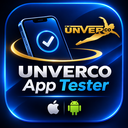
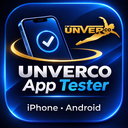
App Tester paneli: logosuz ikon, lisans/marka metinleri, GitHub kota ifadesi
Claude-Session: https://claude.ai/code/session_0164vSdffGZKhvCZ6CJ8cgoG

Changed region(s): [[0.1875, 0.7812, 0.8125, 0.9062], [0.4375, 0.2812, 0.4688, 0.3125], [0.4062, 0.25, 0.4375, 0.2812]]

diff --git a/app-tester/locales/en.js b/app-tester/locales/en.js
@@ -73,7 +73,7 @@ export default {
   "import.err.bad_schema": "The schema number is missing or invalid.",
   "import.err.newer_schema": "This file uses schema {n}, which is newer than this panel understands. Please update the panel.",
   "import.err.bad_field": "A field is missing or has the wrong type: {field}",
-  "import.err.too_large": "The file is larger than 5 MB.",
+  "import.err.too_large": "The file is larger than 5 MB. Import app-tester-results.json, not the artifact ZIP.",
   "import.err.too_many": "The file lists too many items (the limit is {max} failures or environments).",
   "setup.title": "Setup guide",
   "setup.intro": "Five steps, done once. No command line is needed.",
@@ -83,18 +83,18 @@ export default {
   "setup.step2.title": "Edit config.json",
   "setup.step2.text": "Open app-tester/config.json and enter your app name and the path or web address of your app. Add journey steps if you want to test a flow.",
   "setup.step3.title": "Commit and push",
-  "setup.step3.text": "Commit the new files and push them to GitHub. GitHub Desktop or the upload button on the GitHub website both work.",
+  "setup.step3.text": "Commit the new files and push them to GitHub. You can use GitHub Desktop or the upload button on the GitHub website.",
   "setup.step4.title": "Run the workflow",
-  "setup.step4.text": "On GitHub open Actions, choose App Tester, then press Run workflow. A full run usually takes about 10 to 13 minutes. For a quick check in about 2 minutes, run App Tester - Web on its own.",
+  "setup.step4.text": "On GitHub open Actions, choose App Tester, click Run workflow, then Run workflow again. A full check takes about 10 to 13 minutes. For a quick check in about 2 minutes, run App Tester - Web on its own.",
   "setup.step5.title": "Download the result and import it",
   "setup.step5.text": "When the run is finished, open it, download the artifact and unzip it. Then import app-tester-results.json here.",
   "setup.goImport": "Import results",
   "setup.cost.title": "Cost",
-  "setup.cost.text": "In a public GitHub repository the standard runners are free. In a private repository the minutes come from your plan: GitHub Free includes 2,000 minutes a month, and the iPhone test runs on macOS, which uses them about 10 times faster (about 0.062 USD per macOS minute after that). A full run takes about 10 to 13 minutes, the quick web check about 2 minutes. Check GitHub's current prices before you run.",
+  "setup.cost.text": "In a public GitHub repository the standard runners are free. In a private repository, usage comes from your GitHub plan: GitHub Free includes $12 of Actions usage a month (about 2,000 standard Linux minutes), and the iOS test runs on macOS, which costs about 10 times more per minute. A full check takes about 10 to 13 minutes, the quick check about 2 minutes. Check GitHub's current prices before you run.",
   "setup.req.title": "What you need",
   "setup.req.1": "A GitHub account",
   "setup.req.2": "A GitHub repository with your app (public is free)",
-  "setup.req.3": "A web browser. You need no Mac and no iPhone.",
+  "setup.req.3": "A web browser. You do not need a Mac or an iPhone.",
   "setup.req.4": "An AI coding assistant to paste the fix prompts into (optional)",
   "results.title": "Results",
   "results.none": "No result is selected yet.",
@@ -156,10 +156,10 @@ export default {
   "settings.deleted": "All data deleted.",
   "about.title": "About",
   "about.version": "Version {version}",
-  "about.license": "License: for the personal use of the buyer. Do not share or resell the file.",
+  "about.license": "License: for the buyer's own use (one person or one business). Do not share, resell or redistribute the files.",
   "about.third": "Icons: Lucide (ISC License).",
-  "about.trademarks": "Android is a trademark of Google LLC. iPhone and Safari are trademarks of Apple Inc. Not affiliated with Apple or Google.",
-  "about.ai": "Made with the help of AI.",
+  "about.trademarks": "Android and Chrome are trademarks of Google LLC. iPhone, Safari and macOS are trademarks of Apple Inc. GitHub is a trademark of GitHub, Inc. Not affiliated with or endorsed by Apple, Google or GitHub.",
+  "about.ai": "The code and images were made with help from AI tools.",
   "about.company": "© 2026 ÜNVER GROUP GLOBAL PAZARLAMA A.Ş. (ÜNVERCO)",
   "pwa.update": "A new version is ready.",
   "pwa.refresh": "Refresh",

diff --git a/app-tester/locales/fr.js b/app-tester/locales/fr.js
@@ -73,7 +73,7 @@ export default {
   "import.err.bad_schema": "Le numéro de schéma est absent ou invalide.",
   "import.err.newer_schema": "Ce fichier utilise le schéma {n}, plus récent que ce que ce panneau comprend. Mettez le panneau à jour.",
   "import.err.bad_field": "Un champ est absent ou d’un type incorrect : {field}",
-  "import.err.too_large": "Le fichier dépasse 5 Mo.",
+  "import.err.too_large": "Le fichier dépasse 5 Mo. Importez app-tester-results.json, pas le ZIP de l’artefact.",
   "import.err.too_many": "Le fichier contient trop d’éléments (la limite est de {max} erreurs ou environnements).",
   "setup.title": "Guide d’installation",
   "setup.intro": "Cinq étapes, à faire une seule fois. Aucune ligne de commande n’est nécessaire.",
@@ -85,12 +85,12 @@ export default {
   "setup.step3.title": "Faites un commit et un push",
   "setup.step3.text": "Faites un commit des nouveaux fichiers et envoyez-les sur GitHub. GitHub Desktop ou le bouton d’envoi du site GitHub conviennent tous deux.",
   "setup.step4.title": "Lancez le workflow",
-  "setup.step4.text": "Sur GitHub, ouvrez Actions, choisissez App Tester, puis cliquez sur Run workflow. Une exécution complète dure en général de 10 à 13 minutes environ. Pour une vérification rapide d’environ 2 minutes, lancez App Tester - Web seul.",
+  "setup.step4.text": "Sur GitHub, ouvrez Actions, choisissez App Tester, cliquez sur Run workflow, puis encore sur Run workflow. Une vérification complète prend environ 10 à 13 minutes. Pour une vérification rapide d’environ 2 minutes, lancez App Tester - Web seul.",
   "setup.step5.title": "Téléchargez le résultat et importez-le",
   "setup.step5.text": "Quand l’exécution est terminée, ouvrez-la, téléchargez l’artefact et décompressez-le. Importez ensuite app-tester-results.json ici.",
   "setup.goImport": "Importer les résultats",
   "setup.cost.title": "Coût",
-  "setup.cost.text": "Dans un dépôt GitHub public, les runners standard sont gratuits. Dans un dépôt privé, les minutes viennent de votre offre : GitHub Free inclut 2 000 minutes par mois, et le test iPhone tourne sous macOS, qui les consomme environ 10 fois plus vite (ensuite, environ 0,062 USD par minute macOS). Une exécution complète prend environ 10 à 13 minutes, la vérification web rapide environ 2 minutes. Vérifiez les tarifs actuels de GitHub avant de lancer.",
+  "setup.cost.text": "Dans un dépôt GitHub public, les runners standard sont gratuits. Dans un dépôt privé, l’usage vient de votre offre GitHub : GitHub Free inclut 12 $ d’usage Actions par mois (environ 2 000 minutes Linux standard), et le test iOS tourne sous macOS, qui coûte environ 10 fois plus par minute. Une vérification complète prend environ 10 à 13 minutes, la vérification rapide environ 2 minutes. Vérifiez les tarifs actuels de GitHub avant de lancer.",
   "setup.req.title": "Ce qu’il vous faut",
   "setup.req.1": "Un compte GitHub",
   "setup.req.2": "Un dépôt GitHub contenant votre application (public : gratuit)",
@@ -156,10 +156,10 @@ export default {
   "settings.deleted": "Toutes les données ont été supprimées.",
   "about.title": "À propos",
   "about.version": "Version {version}",
-  "about.license": "Licence : pour l’usage personnel de l’acheteur. Ne partagez pas et ne revendez pas le fichier.",
+  "about.license": "Licence : pour l’usage propre de l’acheteur (une personne ou une entreprise). Ne partagez pas, ne revendez pas et ne redistribuez pas les fichiers.",
   "about.third": "Icônes : Lucide (licence ISC).",
-  "about.trademarks": "Android est une marque de Google LLC. iPhone et Safari sont des marques d’Apple Inc. Sans affiliation avec Apple ou Google.",
-  "about.ai": "Réalisé avec l’aide de l’IA.",
+  "about.trademarks": "Android et Chrome sont des marques de Google LLC. iPhone, Safari et macOS sont des marques d’Apple Inc. GitHub est une marque de GitHub, Inc. Sans affiliation ni approbation d’Apple, de Google ou de GitHub.",
+  "about.ai": "Le code et les images ont été réalisés avec l’aide d’outils d’IA.",
   "about.company": "© 2026 ÜNVER GROUP GLOBAL PAZARLAMA A.Ş. (ÜNVERCO)",
   "pwa.update": "Une nouvelle version est prête.",
   "pwa.refresh": "Actualiser",

diff --git a/app-tester/locales/de.js b/app-tester/locales/de.js
@@ -73,7 +73,7 @@ export default {
   "import.err.bad_schema": "Die Schemanummer fehlt oder ist ungültig.",
   "import.err.newer_schema": "Diese Datei nutzt Schema {n}, neuer als dieses Panel versteht. Bitte aktualisieren Sie das Panel.",
   "import.err.bad_field": "Ein Feld fehlt oder hat den falschen Typ: {field}",
-  "import.err.too_large": "Die Datei ist größer als 5 MB.",
+  "import.err.too_large": "Die Datei ist größer als 5 MB. Importieren Sie app-tester-results.json, nicht die Artefakt-ZIP.",
   "import.err.too_many": "Die Datei enthält zu viele Einträge (Grenze: {max} Fehler oder Umgebungen).",
   "setup.title": "Einrichtungsanleitung",
   "setup.intro": "Fünf Schritte, einmalig. Eine Kommandozeile ist nicht nötig.",
@@ -85,12 +85,12 @@ export default {
   "setup.step3.title": "Committen und pushen",
   "setup.step3.text": "Committen Sie die neuen Dateien und laden Sie sie zu GitHub hoch. GitHub Desktop oder die Upload-Schaltfläche auf der GitHub-Website funktionieren beide.",
   "setup.step4.title": "Workflow starten",
-  "setup.step4.text": "Öffnen Sie auf GitHub Actions, wählen Sie App Tester und klicken Sie auf Run workflow. Ein vollständiger Lauf dauert meist etwa 10 bis 13 Minuten. Für eine schnelle Prüfung in etwa 2 Minuten starten Sie nur App Tester - Web.",
+  "setup.step4.text": "Öffnen Sie auf GitHub Actions, wählen Sie App Tester, klicken Sie auf Run workflow und danach erneut auf Run workflow. Eine vollständige Prüfung dauert etwa 10 bis 13 Minuten. Für eine schnelle Prüfung in etwa 2 Minuten starten Sie nur App Tester - Web.",
   "setup.step5.title": "Ergebnis herunterladen und importieren",
   "setup.step5.text": "Öffnen Sie den fertigen Lauf, laden Sie das Artefakt herunter und entpacken Sie es. Importieren Sie dann app-tester-results.json hier.",
   "setup.goImport": "Ergebnisse importieren",
   "setup.cost.title": "Kosten",
-  "setup.cost.text": "In einem öffentlichen GitHub-Repository sind die Standard-Runner kostenlos. In einem privaten Repository stammen die Minuten aus Ihrem Tarif: GitHub Free enthält 2.000 Minuten pro Monat, und der iPhone-Test läuft auf macOS, das sie etwa 10-mal schneller verbraucht (danach etwa 0,062 USD pro macOS-Minute). Ein vollständiger Lauf dauert etwa 10 bis 13 Minuten, die schnelle Web-Prüfung etwa 2 Minuten. Prüfen Sie vor dem Start die aktuellen GitHub-Preise.",
+  "setup.cost.text": "In einem öffentlichen GitHub-Repository sind die Standard-Runner kostenlos. In einem privaten Repository stammt die Nutzung aus Ihrem GitHub-Tarif: GitHub Free enthält monatlich 12 $ Actions-Nutzung (etwa 2.000 Standard-Linux-Minuten), und der iOS-Test läuft auf macOS, das pro Minute etwa 10-mal mehr kostet. Eine vollständige Prüfung dauert etwa 10 bis 13 Minuten, die schnelle Prüfung etwa 2 Minuten. Prüfen Sie vor dem Start die aktuellen GitHub-Preise.",
   "setup.req.title": "Was Sie brauchen",
   "setup.req.1": "Ein GitHub-Konto",
   "setup.req.2": "Ein GitHub-Repository mit Ihrer App (öffentlich ist kostenlos)",
@@ -156,10 +156,10 @@ export default {
   "settings.deleted": "Alle Daten gelöscht.",
   "about.title": "Über",
   "about.version": "Version {version}",
-  "about.license": "Lizenz: zur persönlichen Nutzung durch den Käufer. Datei nicht weitergeben oder weiterverkaufen.",
+  "about.license": "Lizenz: zur eigenen Nutzung durch den Käufer (eine Person oder ein Unternehmen). Dateien nicht weitergeben, weiterverkaufen oder verbreiten.",
   "about.third": "Symbole: Lucide (ISC-Lizenz).",
-  "about.trademarks": "Android ist eine Marke von Google LLC. iPhone und Safari sind Marken von Apple Inc. Keine Verbindung zu Apple oder Google.",
-  "about.ai": "Mit Hilfe von KI erstellt.",
+  "about.trademarks": "Android und Chrome sind Marken von Google LLC. iPhone, Safari und macOS sind Marken von Apple Inc. GitHub ist eine Marke von GitHub, Inc. Keine Verbindung zu oder Billigung durch Apple, Google oder GitHub.",
+  "about.ai": "Code und Bilder wurden mit Hilfe von KI-Werkzeugen erstellt.",
   "about.company": "© 2026 ÜNVER GROUP GLOBAL PAZARLAMA A.Ş. (ÜNVERCO)",
   "pwa.update": "Eine neue Version ist bereit.",
   "pwa.refresh": "Aktualisieren",

diff --git a/app-tester/locales/pt.js b/app-tester/locales/pt.js
@@ -73,7 +73,7 @@ export default {
   "import.err.bad_schema": "O número do esquema está ausente ou é inválido.",
   "import.err.newer_schema": "Este arquivo usa o esquema {n}, mais novo do que este painel entende. Atualize o painel.",
   "import.err.bad_field": "Um campo está ausente ou tem o tipo errado: {field}",
-  "import.err.too_large": "O arquivo tem mais de 5 MB.",
+  "import.err.too_large": "O arquivo tem mais de 5 MB. Importe app-tester-results.json, não o ZIP do artefato.",
   "import.err.too_many": "O arquivo lista itens demais (o limite é {max} erros ou ambientes).",
   "setup.title": "Guia de configuração",
   "setup.intro": "Cinco passos, feitos uma única vez. Não é preciso usar linha de comando.",
@@ -85,12 +85,12 @@ export default {
   "setup.step3.title": "Faça commit e push",
   "setup.step3.text": "Faça commit dos arquivos novos e envie-os ao GitHub. O GitHub Desktop ou o botão de envio do site do GitHub funcionam.",
   "setup.step4.title": "Execute o workflow",
-  "setup.step4.text": "No GitHub, abra Actions, escolha App Tester e clique em Run workflow. Uma execução completa costuma levar cerca de 10 a 13 minutos. Para uma verificação rápida de cerca de 2 minutos, execute apenas App Tester - Web.",
+  "setup.step4.text": "No GitHub, abra Actions, escolha App Tester, clique em Run workflow e depois em Run workflow outra vez. Uma verificação completa leva cerca de 10 a 13 minutos. Para uma verificação rápida de cerca de 2 minutos, execute apenas App Tester - Web.",
   "setup.step5.title": "Baixe o resultado e importe",
   "setup.step5.text": "Quando a execução terminar, abra-a, baixe o artefato e descompacte-o. Depois importe aqui o app-tester-results.json.",
   "setup.goImport": "Importar resultados",
   "setup.cost.title": "Custo",
-  "setup.cost.text": "Em um repositório público do GitHub, os runners padrão são gratuitos. Em um repositório privado, os minutos saem do seu plano: o GitHub Free inclui 2.000 minutos por mês, e o teste de iPhone roda em macOS, que os consome cerca de 10 vezes mais rápido (depois, cerca de 0,062 USD por minuto de macOS). Uma execução completa leva cerca de 10 a 13 minutos; a verificação web rápida, cerca de 2 minutos. Confira os preços atuais do GitHub antes de executar.",
+  "setup.cost.text": "Em um repositório público do GitHub, os runners padrão são gratuitos. Em um repositório privado, o uso sai do seu plano do GitHub: o GitHub Free inclui US$ 12 de uso do Actions por mês (cerca de 2.000 minutos padrão de Linux), e o teste de iOS roda em macOS, que custa cerca de 10 vezes mais por minuto. Uma verificação completa leva cerca de 10 a 13 minutos; a verificação rápida, cerca de 2 minutos. Confira os preços atuais do GitHub antes de executar.",
   "setup.req.title": "O que você precisa",
   "setup.req.1": "Uma conta do GitHub",
   "setup.req.2": "Um repositório do GitHub com o seu app (público é gratuito)",
@@ -156,10 +156,10 @@ export default {
   "settings.deleted": "Todos os dados foram excluídos.",
   "about.title": "Sobre",
   "about.version": "Versão {version}",
-  "about.license": "Licença: para uso pessoal do comprador. Não compartilhe nem revenda o arquivo.",
+  "about.license": "Licença: para uso próprio do comprador (uma pessoa ou uma empresa). Não compartilhe, revenda nem redistribua os arquivos.",
   "about.third": "Ícones: Lucide (licença ISC).",
-  "about.trademarks": "Android é uma marca da Google LLC. iPhone e Safari são marcas da Apple Inc. Sem afiliação com a Apple ou o Google.",
-  "about.ai": "Feito com a ajuda de IA.",
+  "about.trademarks": "Android e Chrome são marcas da Google LLC. iPhone, Safari e macOS são marcas da Apple Inc. GitHub é uma marca da GitHub, Inc. Sem afiliação ou endosso da Apple, do Google ou do GitHub.",
+  "about.ai": "O código e as imagens foram feitos com a ajuda de ferramentas de IA.",
   "about.company": "© 2026 ÜNVER GROUP GLOBAL PAZARLAMA A.Ş. (ÜNVERCO)",
   "pwa.update": "Uma nova versão está pronta.",
   "pwa.refresh": "Atualizar",

diff --git a/app-tester/locales/es.js b/app-tester/locales/es.js
@@ -73,7 +73,7 @@ export default {
   "import.err.bad_schema": "Falta el número de esquema o no es válido.",
   "import.err.newer_schema": "Este archivo usa el esquema {n}, más nuevo de lo que entiende este panel. Actualiza el panel.",
   "import.err.bad_field": "Falta un campo o tiene un tipo incorrecto: {field}",
-  "import.err.too_large": "El archivo pesa más de 5 MB.",
+  "import.err.too_large": "El archivo pesa más de 5 MB. Importa app-tester-results.json, no el ZIP del artefacto.",
   "import.err.too_many": "El archivo enumera demasiados elementos (el límite es {max} errores o entornos).",
   "setup.title": "Guía de configuración",
   "setup.intro": "Cinco pasos, que se hacen una sola vez. No hace falta usar la línea de comandos.",
@@ -85,12 +85,12 @@ export default {
   "setup.step3.title": "Haz commit y push",
   "setup.step3.text": "Haz commit de los archivos nuevos y súbelos a GitHub. Sirve GitHub Desktop o el botón de subida del sitio web de GitHub.",
   "setup.step4.title": "Ejecuta el workflow",
-  "setup.step4.text": "En GitHub abre Actions, elige App Tester y pulsa Run workflow. Una ejecución completa suele tardar unos 10 a 13 minutos. Para una comprobación rápida de unos 2 minutos, ejecuta solo App Tester - Web.",
+  "setup.step4.text": "En GitHub abre Actions, elige App Tester, pulsa Run workflow y después otra vez Run workflow. Una comprobación completa tarda unos 10 a 13 minutos. Para una comprobación rápida de unos 2 minutos, ejecuta solo App Tester - Web.",
   "setup.step5.title": "Descarga el resultado e impórtalo",
   "setup.step5.text": "Cuando termine la ejecución, ábrela, descarga el artefacto y descomprímelo. Luego importa aquí app-tester-results.json.",
   "setup.goImport": "Importar resultados",
   "setup.cost.title": "Coste",
-  "setup.cost.text": "En un repositorio público de GitHub los runners estándar son gratuitos. En un repositorio privado los minutos salen de tu plan: GitHub Free incluye 2.000 minutos al mes, y la prueba de iPhone se ejecuta en macOS, que los consume unas 10 veces más rápido (después, unos 0,062 USD por minuto de macOS). Una ejecución completa tarda unos 10 a 13 minutos; la comprobación web rápida, unos 2 minutos. Consulta los precios actuales de GitHub antes de ejecutar.",
+  "setup.cost.text": "En un repositorio público de GitHub los runners estándar son gratuitos. En un repositorio privado el uso sale de tu plan de GitHub: GitHub Free incluye 12 $ de uso de Actions al mes (unos 2.000 minutos estándar de Linux), y la prueba de iOS se ejecuta en macOS, que cuesta unas 10 veces más por minuto. Una comprobación completa tarda unos 10 a 13 minutos; la comprobación rápida, unos 2 minutos. Consulta los precios actuales de GitHub antes de ejecutar.",
   "setup.req.title": "Lo que necesitas",
   "setup.req.1": "Una cuenta de GitHub",
   "setup.req.2": "Un repositorio de GitHub con tu app (si es público, es gratis)",
@@ -156,10 +156,10 @@ export default {
   "settings.deleted": "Todos los datos eliminados.",
   "about.title": "Acerca de",
   "about.version": "Versión {version}",
-  "about.license": "Licencia: para uso personal del comprador. No compartas ni revendas el archivo.",
+  "about.license": "Licencia: para uso propio del comprador (una persona o una empresa). No compartas, revendas ni redistribuyas los archivos.",
   "about.third": "Iconos: Lucide (licencia ISC).",
-  "about.trademarks": "Android es una marca de Google LLC. iPhone y Safari son marcas de Apple Inc. Sin afiliación con Apple ni Google.",
-  "about.ai": "Hecho con ayuda de IA.",
+  "about.trademarks": "Android y Chrome son marcas de Google LLC. iPhone, Safari y macOS son marcas de Apple Inc. GitHub es una marca de GitHub, Inc. Sin afiliación ni respaldo de Apple, Google o GitHub.",
+  "about.ai": "El código y las imágenes se hicieron con ayuda de herramientas de IA.",
   "about.company": "© 2026 ÜNVER GROUP GLOBAL PAZARLAMA A.Ş. (ÜNVERCO)",
   "pwa.update": "Hay una versión nueva lista.",
   "pwa.refresh": "Actualizar",
